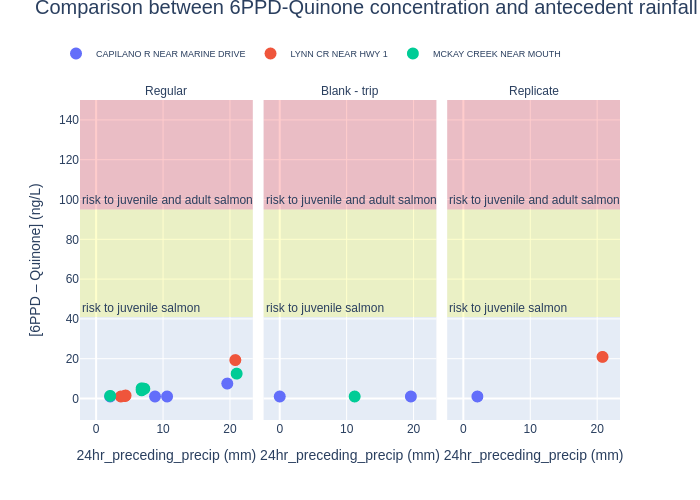
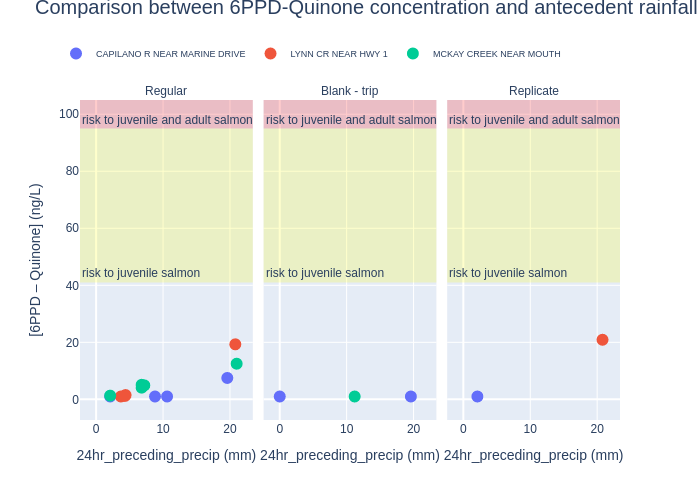
Fixed y range in fig c. Added cloning to the README. Pushing the updated figures.

diff --git a/code/quinone.py b/code/quinone.py
@@ -402,7 +402,7 @@ fig.add_hrect(
 # #Add colour zone for risk of morbidity to adult salmon
 fig.add_hrect(
     y0=95, 
-    y1=150, 
+    y1=105, 
     annotation_text="risk to juvenile and adult salmon",
     annotation_position="bottom left",
     fillcolor="red",

diff --git a/README.md b/README.md
@@ -2,6 +2,10 @@
 
 The code for answering question 3 in the written assignment was written in python. It uses a virtual environment to control packages and package versions to make sure that running is consistent across platforms. This readme walks through the steps to set up the environment and run the code.
 
+### Clone the repository
+
+git clone git@github.com:faronium/fig3_project
+
 ### Make a virtual environment
 
 First, a virtual environment has to be made. This is done in the project root directory with
@@ -18,6 +22,8 @@ Enter the environment with
 source env/bin/activate
 ```
 
+### Install packages
+
 Upgrade pip
 
 ```bash
@@ -29,6 +35,8 @@ Install the python packages using the package list in the file requirements.txt
 ```bash
 pip install -r requirements.txt
 ```
+
+### Setup the directories
 
 Make a couple of directories that are needed for data that will be downloaded and for the figure output
 
